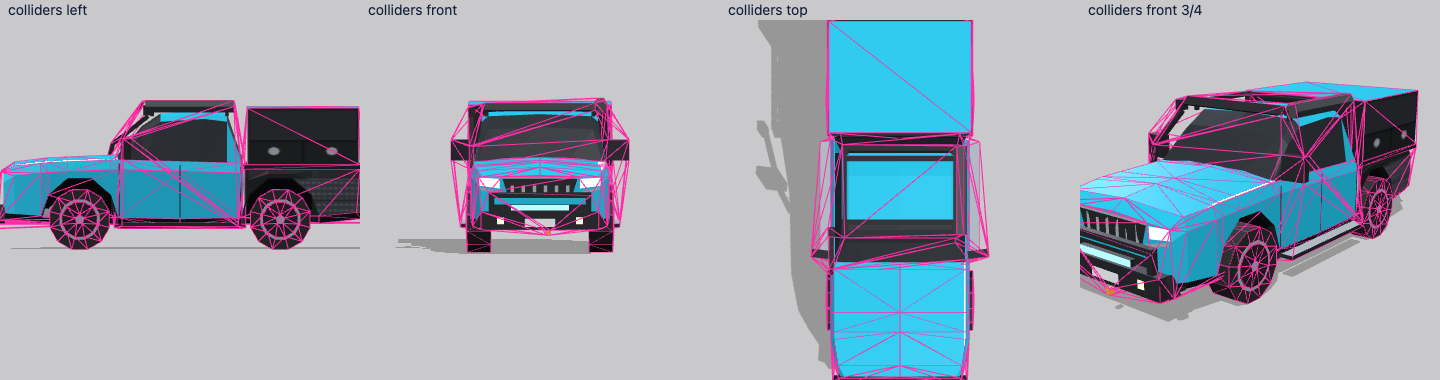
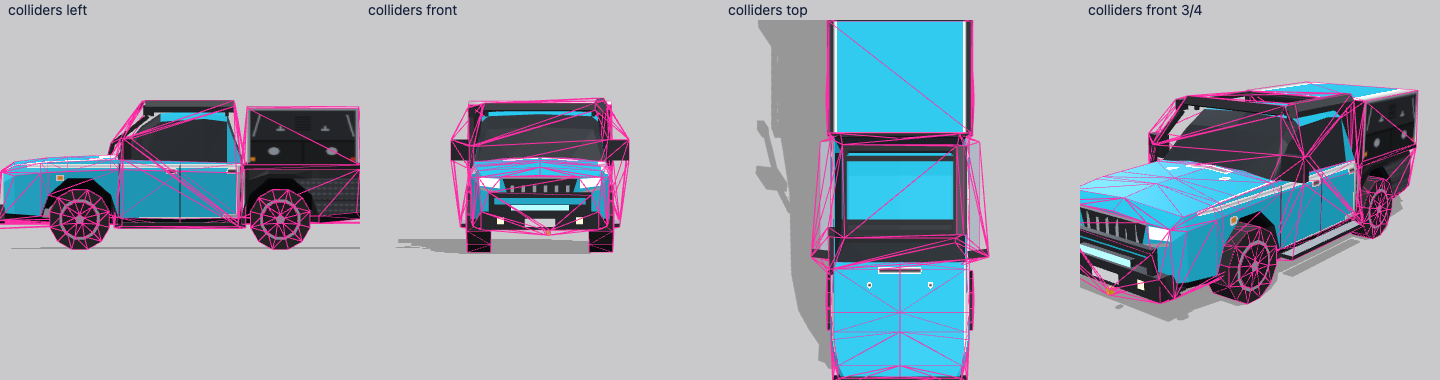
P1-V br-bwju.8: the Tradie Ute's own detail on every plain panel: canopy hardware, rear door and window, seat-coloured lid, J-line, handles, taller tray lamps
Atlas and UV only (triangles unchanged at 1250 / 828 / 592, bake reproducible): the canopy's T-handles, gas struts, vent,
drip rail, corner protectors and reflectors; its back is a rear door with a tinted window, T-handle and third brake light
(own atlas region, emissive); its lid takes the seat colour with tie-down rails on the edges only (thin ribs blended the
paint key away in the mipmaps); door handles, the chrome shoulder line and J-line, the rocker, the guard repeater; washer
jets and cowl vent; taller combination lamps. Paint stays plain like the owner's Triton (a trial hi-vis livery was dropped
when the owner clarified the 'filler' was the picker's silhouettes, br-bwju.10). Review page rebuilt; evidence and
self-review updated (docs/evidence/br-bwju.8/, ute-before-after-views.png).

Agent: BrownHill

diff --git a/art/vehicles/tradie-ute/atlas.js b/art/vehicles/tradie-ute/atlas.js
@@ -2,7 +2,9 @@
 //   side livery  u 0.00–0.70, v 0.50–1.00   (planar z,y projection of the body sides)
 //   top livery   u 0.00–0.35, v 0.00–0.50   (bonnet, planar x,z)
 //   canopy side  u 0.35–0.70, v 0.00–0.50   (planar z,y over the canopy box: doors, seam, locks; br-bwju.8)
-//   swatches     u 0.70–1.00, 4×8 cells     (flat colours: every vertex of a swatch triangle samples the cell centre)
+//   swatches     u 0.70–1.00, v 0.375–1.00 (flat colours: every vertex of a swatch triangle samples the cell centre)
+//   canopy rear  u 0.70–0.85, v 0.00–0.375 (planar x,y over the canopy's back: rear door, window, handle, third brake light; br-bwju.8)
+//   canopy roof  u 0.85–1.00, v 0.00–0.375 (planar x,z over the canopy's lid: ribs and hatch seams on the seat colour)
 // The emissive map has the same layout and is black except the light swatches. UVs here have v up (0 = bottom row of the
 // image), as Spike J's canvas texture had; the bake flips them for glTF.
 //
@@ -16,7 +18,7 @@ export const SW = ['paint', 'trim', 'glass', 'tyre', 'rim', 'head', 'led', 'tail
 export const W = 1024, H = 512;
 const SX = 0.7, CW = (1 - SX) / 4, CH = 1 / 8;
 export function swatchUV(name) { const i = SW.indexOf(name); if (i < 0) throw new Error('swatch ' + name); return [SX + CW * (i % 4 + 0.5), 1 - CH * (((i / 4) | 0) + 0.5)]; }
-export const REGION = { side: [0, 0.5, SX, 1], top: [0, 0, 0.35, 0.5], canopy: [0.35, 0, SX, 0.5] };
+export const REGION = { side: [0, 0.5, SX, 1], top: [0, 0, 0.35, 0.5], canopy: [0.35, 0, SX, 0.5], canopyRear: [SX, 0, 0.85, 0.375], canopyTop: [0.85, 0, 1, 0.375] };
 
 export const DEFAULT_COLOURS = {
   paint: '#f2f4f8', trim: '#26282c', glass: '#2b3036', tyre: '#2a2a2c', rim: '#1f2023', head: '#fff2c8', led: '#9ff6ff', tail: '#e8311f',
@@ -40,12 +42,25 @@ function sideShapes(c) {
   out.push({ poly: m([[cab + 0.62, 0.42], [LEN - 0.12, 0.42], [LEN - 0.12, 1.02], [cab + 0.62, 1.02]]), fill: c.checker }); // under-tray boxes
   for (let x = cab + 0.66; x < LEN - 0.16; x += 0.08) for (let y = 0.46; y < 1.0; y += 0.08) out.push({ poly: m([[x, y], [x + 0.04, y + 0.02], [x, y + 0.04], [x - 0.04, y + 0.02]].map(([a, b]) => [a + 0.02, b])), fill: c.checkerHi });
   out.push({ poly: m([[cab + 0.62, 0.70], [LEN - 0.12, 0.70], [LEN - 0.12, 0.72], [cab + 0.62, 0.72]]), fill: c.under }); // the boxes' lids
+  // The cab's own details (br-bwju.8; the owner's Triton is plain paint, so no livery). Doors cut at 1.66, 2.55 and 3.44 m
+  // from the nose; the body side runs from the sill (0.34 m) to the shoulder (1.25 m).
+  out.push({ poly: m([[1.70, 0.34], [cab - 0.04, 0.34], [cab - 0.04, 0.44], [1.70, 0.44]]), fill: c.trim }); // the black rocker under the doors
+  for (const x of [2.36, 3.24]) out.push({ poly: m([[x, 1.10], [x + 0.13, 1.10], [x + 0.13, 1.15], [x, 1.15]]), fill: c.trim }); // door handles
+  out.push({ poly: m([[0.34, 1.19], [cab - 0.10, 1.19], [cab - 0.10, 1.21], [0.34, 1.21]]), fill: c.chrome }); // the shoulder's chrome line
+  // The J-line: the chrome sweep where the cab meets the tray, down the cab's back and forward along the sill.
+  out.push({ poly: m([[cab - 0.10, 1.21], [cab - 0.02, 1.21], [cab - 0.02, 0.46], [cab - 0.30, 0.46], [cab - 0.30, 0.50], [cab - 0.10, 0.50]]), fill: c.chrome });
+  // Wheel-arch flares' lips and the front guard's indicator repeater.
+  out.push({ poly: m([[0.78, 1.00], [0.86, 1.00], [0.86, 1.06], [0.78, 1.06]]), fill: c.indicator });
   return out;
 }
 function topShapes(c) {
   const [u0, v0, u1, v1] = REGION.top, px = (u1 - u0) * W, py = (v1 - v0) * H, ox = u0 * W, oy = (1 - v1) * H;
   const m = (pts) => pts.map(([x, y]) => [ox + (x / 1.9 + 0.5) * px, oy + (y / 1.7) * py]);
-  return [{ rect: [ox, oy, px, py], fill: c.paint }];
+  const out = [{ rect: [ox, oy, px, py], fill: c.paint }];
+  // The owner's Triton is plain paint (br-bwju.8): the bonnet keeps only its washer jets and the cowl's vent strip.
+  for (const s of [1, -1]) out.push({ poly: m([[s * 0.42, 1.30], [s * 0.46, 1.30], [s * 0.46, 1.34], [s * 0.42, 1.34]]), fill: c.trim });
+  out.push({ poly: m([[-0.30, 1.50], [0.30, 1.50], [0.30, 1.56], [-0.30, 1.56]]), fill: c.trim }); // the cowl's vent strip
+  return out;
 }
 function canopyShapes(c) {
   // u: 0 at the canopy's front, 1 at its back; v: 0 at the deck, 1 at the canopy's top (the model's canopyUV)
@@ -59,6 +74,42 @@ function canopyShapes(c) {
     const r = 0.035, oct = Array.from({ length: 8 }, (_, i) => [u + r * Math.cos(i * Math.PI / 4) * py / px * 2, 0.24 + r * 2 * Math.sin(i * Math.PI / 4)]);
     out.push({ poly: m(oct), fill: c.chrome });
   }
+  // br-bwju.8: the real canopy's hardware: the upper door's T-handles, its gas struts at each end, a louvred vent, the drip
+  // rail along the top, chrome corner protectors, and amber and red side reflectors.
+  for (const u of [0.30, 0.70]) out.push({ poly: m([[u - 0.035, 0.60], [u + 0.035, 0.60], [u + 0.035, 0.63], [u + 0.008, 0.63], [u + 0.008, 0.68], [u - 0.008, 0.68], [u - 0.008, 0.63], [u - 0.035, 0.63]]), fill: c.chrome });
+  for (const [a, b] of [[0.05, 0.11], [0.95, 0.89]]) out.push({ poly: m([[a, 0.50], [a + 0.012, 0.50], [b + 0.012, 0.88], [b, 0.88]]), fill: c.chrome });
+  for (let k = 0; k < 6; k++) out.push({ poly: m([[0.43, 0.83 - k * 0.045], [0.57, 0.83 - k * 0.045], [0.57, 0.85 - k * 0.045], [0.43, 0.85 - k * 0.045]]), fill: '#0c0d0f' });
+  out.push({ poly: m([[0, 0.96], [1, 0.96], [1, 1], [0, 1]]), fill: c.chrome }); // drip rail
+  for (const [a, b] of [[0, 0.025], [0.975, 1]]) out.push({ poly: m([[a, 0.04], [b, 0.04], [b, 1], [a, 1]]), fill: c.chrome }); // corner protectors
+  out.push({ poly: m([[0.03, 0.07], [0.07, 0.07], [0.07, 0.13], [0.03, 0.13]]), fill: c.indicator });
+  out.push({ poly: m([[0.93, 0.07], [0.97, 0.07], [0.97, 0.13], [0.93, 0.13]]), fill: c.tail });
+  return out;
+}
+
+function canopyRearShapes(c, emissive) {
+  // u: 0 at the canopy's right (-X), 1 at its left; v: 0 at the deck, 1 at the canopy's top (the model's canopyRearUV)
+  const [u0, v0, u1, v1] = REGION.canopyRear, px = (u1 - u0) * W, py = (v1 - v0) * H, ox = u0 * W, oy = (1 - v1) * H;
+  const m = (pts) => pts.map(([u, v]) => [ox + u * px, oy + (1 - v) * py]);
+  if (emissive) return [{ poly: m([[0.38, 0.92], [0.62, 0.92], [0.62, 0.96], [0.38, 0.96]]), fill: EMIT.tail }];
+  const out = [{ rect: [ox, oy, px, py], fill: c.canopy }];
+  out.push({ poly: m([[0.06, 0.08], [0.94, 0.08], [0.94, 0.90], [0.06, 0.90]]), fill: c.canopyHi }); // the rear door
+  out.push({ poly: m([[0.12, 0.50], [0.88, 0.50], [0.88, 0.84], [0.12, 0.84]]), fill: c.glass }); // its tinted window
+  out.push({ poly: m([[0.14, 0.78], [0.40, 0.84], [0.30, 0.84], [0.14, 0.80]]), fill: '#5a6470' }); // the glass's glint
+  out.push({ poly: m([[0.40, 0.40], [0.60, 0.40], [0.60, 0.44], [0.40, 0.44]]), fill: c.chrome }); // T-handle
+  out.push({ poly: m([[0.48, 0.34], [0.52, 0.34], [0.52, 0.40], [0.48, 0.40]]), fill: c.chrome });
+  out.push({ poly: m([[0.38, 0.92], [0.62, 0.92], [0.62, 0.96], [0.38, 0.96]]), fill: c.tail }); // the third brake light
+  for (const u of [0.02, 0.98]) out.push({ poly: m([[u - 0.02, 0], [u + 0.02, 0], [u + 0.02, 1], [u - 0.02, 1]]), fill: c.chrome }); // corner protectors
+  return out;
+}
+
+function canopyTopShapes(c) {
+  // u across the lid (-X to +X), v along it (front to back): the seat colour with the tie-down rails along its edges. Wide
+  // pure-white areas only: thin lines every few texels would blend the white away in the mipmaps and the lid would stop
+  // taking the seat colour at a distance (the chase cam reads whose ute it is from the lid).
+  const [u0, v0, u1, v1] = REGION.canopyTop, px = (u1 - u0) * W, py = (v1 - v0) * H, ox = u0 * W, oy = (1 - v1) * H;
+  const m = (pts) => pts.map(([u, v]) => [ox + u * px, oy + v * py]);
+  const out = [{ rect: [ox, oy, px, py], fill: c.paint }];
+  for (const u of [0.02, 0.98]) out.push({ poly: m([[u - 0.02, 0], [u + 0.02, 0], [u + 0.02, 1], [u - 0.02, 1]]), fill: c.trim }); // tie-down rails along the edges
   return out;
 }
 function swatchShapes(c, emissive) {
@@ -113,7 +164,7 @@ function raster(shapes, background) {
 /** The base-colour and emissive atlases as RGBA pixel buffers (`W`×`H`, rows top to bottom). */
 export function drawAtlas(colours = BAKE_COLOURS) {
   const c = { ...DEFAULT_COLOURS, ...colours };
-  const base = raster([...sideShapes(c), ...topShapes(c), ...canopyShapes(c), ...swatchShapes(c, false)], '#000000');
-  const emissive = raster(swatchShapes(c, true), '#000000');
+  const base = raster([...sideShapes(c), ...topShapes(c), ...canopyShapes(c), ...canopyRearShapes(c, false), ...canopyTopShapes(c), ...swatchShapes(c, false)], '#000000');
+  const emissive = raster([...swatchShapes(c, true), ...canopyRearShapes(c, true)], '#000000');
   return { width: W, height: H, base, emissive };
 }

diff --git a/art/vehicles/tradie-ute/model.js b/art/vehicles/tradie-ute/model.js
@@ -85,6 +85,9 @@ const LEN = 5.3; // matches atlas.js: the side livery spans 5.3 m from the nose
 function sideUV(P) { const [u0, v0, u1, v1] = REGION.side; return (v) => [u0 + (u1 - u0) * ((P.zNose - v[2]) / LEN), v0 + (v1 - v0) * (v[1] / 1.7)]; }
 function topUV(P) { const [u0, v0, u1, v1] = REGION.top; return (v) => [u0 + (u1 - u0) * (v[0] / 1.9 + 0.5), v1 - (v1 - v0) * ((P.zNose - v[2]) / 1.7)]; }
 // the canopy's sides: planar (z, y) over its own box, front edge at u0 (atlas.js draws the doors, seam and locks there)
+// the canopy's back (planar x, y) and its lid (planar x, z): atlas.js draws the rear door, window and chevrons, and the lid's ribs
+function canopyRearUV(P, y0) { const [u0, v0, u1, v1] = REGION.canopyRear, C = P.canopy; return (v) => [u0 + (u1 - u0) * ((v[0] + C.hw) / (2 * C.hw)), v0 + (v1 - v0) * ((v[1] - y0) / (C.y1 - y0))]; }
+function canopyTopUV(P) { const [u0, v0, u1, v1] = REGION.canopyTop, C = P.canopy; return (v) => [u0 + (u1 - u0) * ((v[0] + C.hw) / (2 * C.hw)), v1 - (v1 - v0) * ((C.z0 - v[2]) / (C.z0 - C.z1))]; }
 function canopyUV(P, y0) { const [u0, v0, u1, v1] = REGION.canopy, C = P.canopy; return (v) => [u0 + (u1 - u0) * ((C.z0 - v[2]) / (C.z0 - C.z1)), v0 + (v1 - v0) * ((v[1] - y0) / (C.y1 - y0))]; }
 
 // ───────────────────────── build ─────────────────────────
@@ -201,10 +204,10 @@ function makeSoups(P, lod) {
   const trayLen = TR.z0 - TR.z1, trayMid = (TR.z0 + TR.z1) / 2, deckTop = deckY + 0.06;
   Bk.box(0, deckY + 0.03, trayMid, C.hw * 2 + 0.04, 0.06, trayLen + 0.08, 'under'); // the tray deck, wider than the cab
   const cUV = canopyUV(P, deckTop);
-  Bk.box(0, (deckTop + C.y1) / 2, (C.z0 + C.z1) / 2, C.hw * 2, C.y1 - deckTop, C.z0 - C.z1, { all: 'canopy', px: cUV, nx: cUV, py: 'paint' }); // the canopy: black like the owner's, its lid in the seat colour so the chase cam sees whose it is
+  Bk.box(0, (deckTop + C.y1) / 2, (C.z0 + C.z1) / 2, C.hw * 2, C.y1 - deckTop, C.z0 - C.z1, { all: 'canopy', px: cUV, nx: cUV, nz: canopyRearUV(P, deckTop), py: canopyTopUV(P) }); // the canopy: black like the owner's, its lid in the seat colour so the chase cam sees whose it is
   const bq = (x0, y0, x1, y1, sw) => Bk.quad([x1, y0, zt], [x0, y0, zt], [x0, y1, zt], [x1, y1, zt], sw);
   if (T.tailLamps) for (const s of [1, -1]) { // the tray's combination lamps: amber, white, red from the middle out
-    for (const [a, b, sw] of [[0.52, 0.62, 'indicator'], [0.62, 0.70, 'head'], [0.70, 0.94, 'tail']]) { const xa = s * hwT * a, xb = s * hwT * b; bq(Math.min(xa, xb), 0.96, Math.max(xa, xb), 1.08, sw); }
+    for (const [a, b, sw] of [[0.52, 0.62, 'indicator'], [0.62, 0.70, 'head'], [0.70, 0.94, 'tail']]) { const xa = s * hwT * a, xb = s * hwT * b; bq(Math.min(xa, xb), 0.90, Math.max(xa, xb), 1.10, sw); } // tall, as the Cruz's are (br-bwju.8)
   }
   bq(-0.22, 0.74, 0.22, 0.86, 'white'); // number plate
   if (T.tow) { Bk.box(0, 0.42, zt - 0.06, 0.55, 0.10, 0.14, 'trim'); Bk.prism([0, 0.46, zt - 0.14], [0, 0.56, zt - 0.14], 0.04, 5, 'chrome', 'chrome'); }

diff --git a/docs/evidence/br-bwju.8/self-review.md b/docs/evidence/br-bwju.8/self-review.md
@@ -72,6 +72,22 @@ little too generic right now."
 7. **From the chase cam the Ute read as a black box.** The canopy hid the seat colour (grid-24). The canopy's lid now carries the
    seat colour; the sides and rear stay black like the owner's.
 8. **The hi-vis livery wasn't the owner's car.** Removed: the paint is plain, and the hi-vis bumper corners are now black.
+9. **Detail pass, 2026-10-17 (BrownHill).** Each plain panel now carries the owner's Triton's own detail. Every addition is
+   atlas or UV only, so the triangles stay 1250 / 828 / 592 and the bake is reproducible (`bake.mjs --check`).
+   - **Canopy sides:** the upper doors' T-handles and gas struts, a louvred vent, the drip rail, chrome corner protectors, and
+     amber (front) and red (rear) reflectors.
+   - **Canopy back:** a rear door with a tinted window, a T-handle and a third brake light (emissive). It has its own atlas
+     region; it used to be a flat black swatch.
+   - **Canopy lid:** the seat colour with tie-down rails along its edges. It has its own atlas region and is pure white
+     elsewhere, so the tint survives the mipmaps (thin ribs I tried first blended the white away and the lid went untinted at
+     a distance: `paints.png`, `grid-24.png`).
+   - **Cab sides:** door handles, the chrome shoulder line, the J-line down the cab's back and along the sill, the black
+     rocker, and the front guard's repeater.
+   - **Bonnet:** washer jets and the cowl vent.
+   - **Tray:** taller combination lamps.
+   - **Owner's correction:** I tried a hi-vis livery and bonnet stripes against the Cruz's livery density, then dropped them
+     when the owner clarified that the "filler" was the picker's silhouettes (br-bwju.10). The paint stays plain, as on their car.
+   - `ute-before-after-views.png`: the 2026-10-16 bake above, this one below.
 
 ## Remaining defects
 
